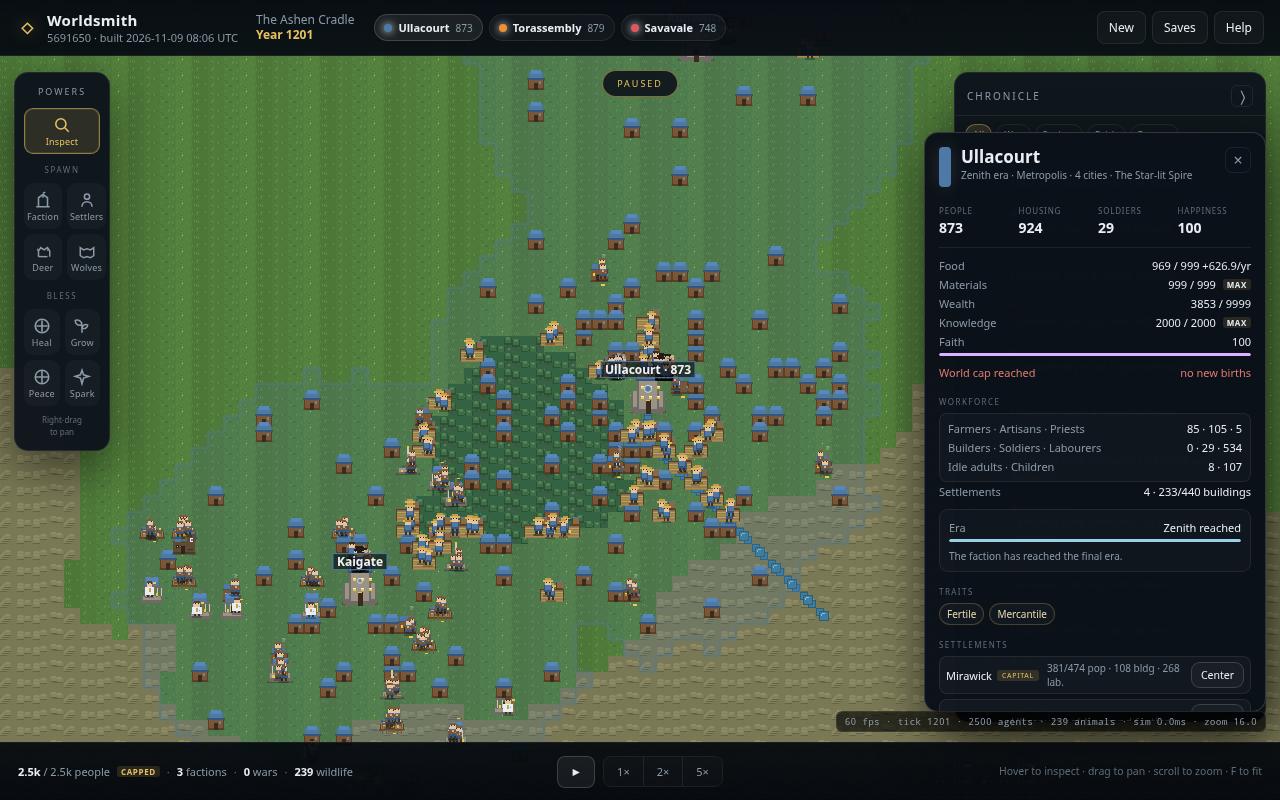
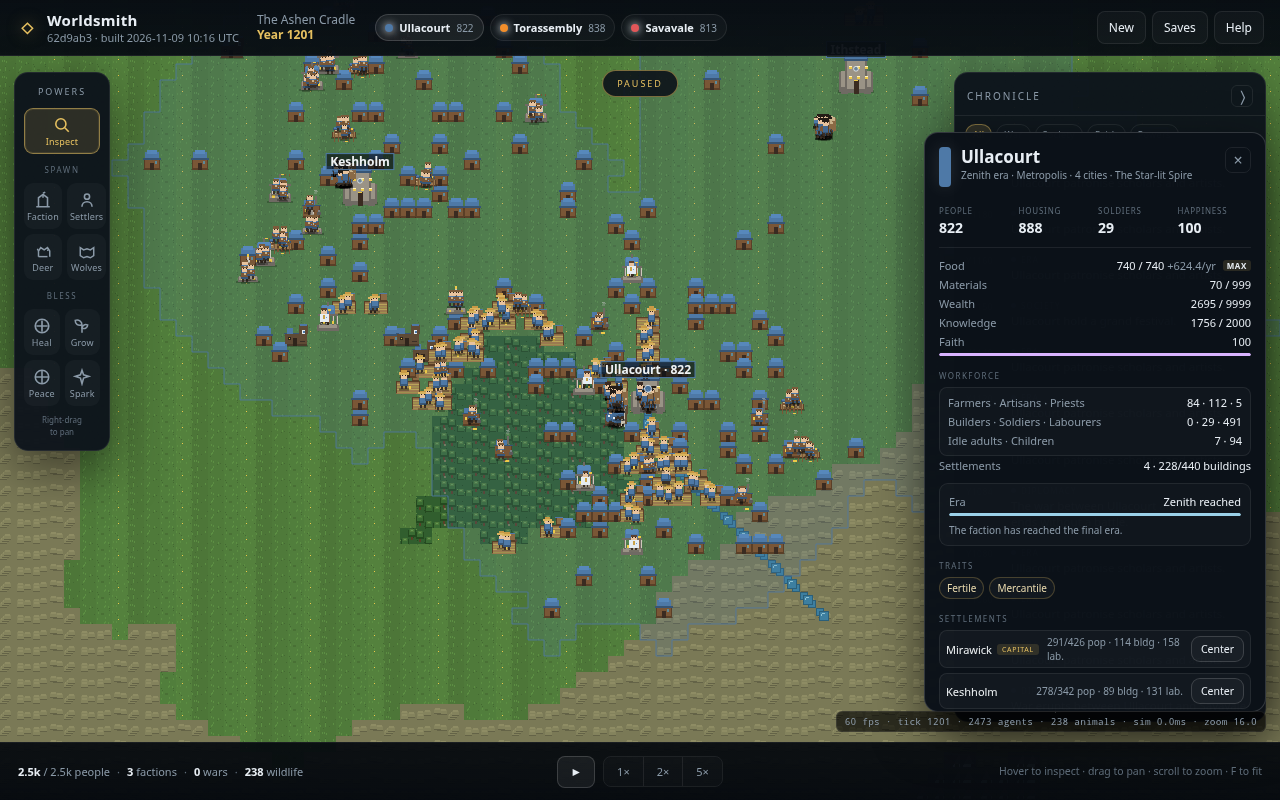
docs: record audit follow-up results

diff --git a/PLAN.md b/PLAN.md
@@ -72,6 +72,12 @@ In one line: **WorldBox-style living world, focused on societies rather than dis
   create resource pressure; expansion is population-gated so four settlements are reachable;
   wounded soldiers retreat instead of always dying; and the HUD shows population/cap,
   workforce and resource limits.
+- **Audit follow-up** — births are allocated fairly at the global cap with an emergency
+  reserve; no-fertile factions receive wanderers; war housing loss no longer sterilises a
+  faction (soft births, houses targeted last, peace relief); food storage is
+  population-scaled, era upkeep and wealth soft caps curb late-game saturation; no-contact
+  wars end as stalemates; and extinction causes/limits are surfaced in the HUD and
+  chronicle.
 
 ## 4. Milestones
 
@@ -88,6 +94,7 @@ In one line: **WorldBox-style living world, focused on societies rather than dis
 | 9 | Audit fixes: zero-pop extinction, proportional/varied famine, city migration + cross-settlement labour, defender interception, HUD warnings | ✅ Done | PR #11 follow-up; 85 tests; 1000-year run QA |
 | 10 | Post-fix audit: verified extinction path, population and settlement health; recorded remaining economy/cap/naval/religion gaps | ✅ Done | PR #11; 85 tests; audit runs |
 | 11 | Late-game society & balance: laborers, civic buildings, upkeep/festivals, population-gated four-city expansion, wounded retreat, cap/workforce HUD | ✅ Done | `feat/late-game-society`; 96 tests; 512²/256² audits |
+| 12 | Audit follow-up: fair cap allocation, post-war recovery, late-game economy and war fixes, extinction/cap feedback | ✅ Done | PR #12 follow-up; 104 tests; 2,000-year audit rerun |
 
 ## 5. Verification snapshot
 
@@ -95,28 +102,25 @@ As of **2026-11-09** (branch `feat/late-game-society`, based on `5691650`):
 
 - `npm install` completed; `@types/node` and `wrangler` present.
 - `npm run typecheck` — pass.
-- `npm test` — **96/96 pass** across 21 test files (16–28 s depending on load).
-- `npm run build` — pass; production `dist/` generated (39 modules, 146.92 kB JS,
+- `npm test` — **104/104 pass** across 23 test files (17–24 s depending on load).
+- `npm run build` — pass; production `dist/` generated (39 modules, 150.60 kB JS,
   22.98 kB CSS).
-- 512² `DELTA`, 1,600 ticks — **12 town centres (4 per faction)**, 675 buildings;
-  populations 891/893/714 = **2,498 / 2,500** global cap; building/soldier role share
-  28.8% / 28.4% / 34.1%; true idle adults 1.0–1.3%; 8 Markets, 6 Universities and
-  3 Monuments per faction; materials and knowledge capped, but wealth at
-  5,411 / 273 / 219 and food at 960–999. Migration distributes residents across the
-  four cities (sample 381 / 314 / 95 / 83) instead of filling only the largest one.
-- 256² `ALPHA`, 1,000 ticks — **130 war casualties, 3 battles**, populations
-  174 / 849 / 168; no zero-population faction, down from the previous worst audit of
-  557 casualties.
-- 1,024² pacing test — 200 ticks at ~2.4 ms/tick; performance headroom retained.
-- 2,000-year audit (see [docs/audit-2000.md](docs/audit-2000.md)) — 256² `ALPHA`,
-  `BRAVO` and `CHARLIE` ran to 2000 or first extinction; `BRAVO` lost Velakin at 652
-  and `CHARLIE` lost Moraspire at 228. 512² `DELTA` and 1,024² `TITAN` survived to
-  2000 but materials/knowledge capped, 1,024² stopped at 2,648/4,000 people, and
-  active-war years were 33–40%; findings and follow-ups are recorded in the report.
-- Browser checks at 1280×800 — creation; 256² growth to the cap; cap badge; civ panel
-  with workforce/resource limits/world-cap warning; new Market/University/Monument
-  sprites; festival and first-Monument chronicle entries; save slot → load; no console
-  errors.
+- 2,000-year audit after the follow-up (see [docs/audit-2000.md](docs/audit-2000.md)):
+  **no civilization went extinct** in 256² `ALPHA`/`BRAVO`/`CHARLIE`, 512² `DELTA` or
+  1,024² `TITAN`. 256² factions stabilise around 400 people with two cities each; 512²
+  and 1024² hold four cities each (one 512² faction fell to three after a war).
+- Resource pressure after the follow-up: food cap ticks are **zero** in every run; most
+  large-world factions end at 0–21 materials (one 512² faction still caps at 999);
+  knowledge ends at 1,700–2,000; wealth is soft-capped near 4,000 for rich factions and
+  near zero for poor ones; no famine events occurred.
+- War after the follow-up: 256² 8–13 starts with 5–12 battles; 512² 11 starts / 1 battle /
+  10 stalemates; 1,024² 13 starts / 1 battle / 8 stalemates. Stalemates and a 30-year
+  cooldown replaced the old phoney-war treadmill; battles remain rare on 1,024².
+- Browser checks at 1280×800 — creation; 512² twelve-city growth; cap/birth-limit HUD;
+  dynamic food storage; workforce and resource panel; new Market/University/Monument
+  sprites; festival, patronage, war-stalemate and first-building chronicle entries;
+  fallen-faction panel with cause/peak/casualties; save slot → load; 1,024² at 5× ~60 fps;
+  no console errors.
 - Dev server — `http://127.0.0.1:5173/`; responsive; no replacement server started.
 - Deployment — not performed; Cloudflare remains unauthenticated.
 - CI — intentionally **not added** (explicit user request); all verification is local.
@@ -144,21 +148,28 @@ As of **2026-11-09** (branch `feat/late-game-society`, based on `5691650`):
       the civ panel shows workforce, resource limits and growth warnings.
 - [x] **War balance:** half of lethal soldier hits become wounded retreats and wars end
       sooner; 256² casualties fell to 130 over 1,000 years in the audit seed.
-- [ ] **Audit follow-up — global cap fairness:** the global agent cap is a zero-sum
-      birth pool; later-founded factions can be squeezed to extinction. Add fair slot
-      allocation/reserved quotas and a low-population rescue path.
-- [ ] **Audit follow-up — post-war recovery:** war razing can block births long enough
-      for a faction's fertile cohort to age out. Add soft overcrowding births, rebuild
-      priority, razing limits and emergency immigration.
-- [ ] **Audit follow-up — resources and 1,024² growth:** food/materials/knowledge still
-      cap for most of the late game; 1,024² stops at 2,648/4,000. Add sinks/projects and
-      scale starting factions, settlements and housing with world size.
-- [ ] **Audit follow-up — war logistics and housing:** 1,024² generated 13 wars and only
-      2 battles; per-settlement housing remains imbalanced. Add route-feasibility checks,
-      naval interception, family migration and local housing priority.
-- [ ] **Audit follow-up — religion, ageing and extinction feedback:** conversions are
-      0–2 per 2,000 years, the age pyramid is old, and extinction only says “are no
-      more”. Add religion depth, fertility/ageing review and cause/history feedback.
+- [x] **Audit follow-up — global cap fairness:** births now use a population-ordered
+      budget and an emergency reserve; low-population factions can receive wanderers.
+      The 2,000-year audit no longer loses a faction to the cap.
+- [x] **Audit follow-up — post-war recovery:** soft overcrowding births, houses targeted
+      last, peace relief, longer cooldowns and emergency immigration prevent the
+      housing-loss death spiral.
+- [x] **Audit follow-up — late-game economy:** population-scaled food storage, era-gated
+      upkeep, wealth soft cap, knowledge/wealth building costs, expanded Monuments and
+      patronage; food no longer caps and no famine appears in the 2,000-year audit.
+- [ ] **Remaining late-game economy:** materials still cap on 256² and one industrious
+      512² faction; knowledge still reaches 2,000 for some factions. Add further sinks.
+- [ ] **1,024² growth:** the vast world still stabilises below its 4,000-agent cap; starting
+      factions, settlements and housing were deliberately not rescaled in this pass.
+- [x] **Audit follow-up — war fixes:** no-contact wars end as stalemates, houses are
+      targeted last, peace relief and a 30-year cooldown reduce phoney/destructive wars.
+- [ ] **War logistics and per-settlement housing:** 1,024² still produced only one battle
+      across 13 war starts; route feasibility/naval interception and family migration
+      remain open.
+- [x] **Audit follow-up — extinction feedback:** cause, peak, casualties and era are shown
+      in the chronicle and fallen-faction panel; cap and storage limits are surfaced.
+- [ ] **Religion and ageing:** conversions remain 0–2 per 2,000 years and the age pyramid
+      is old; these were deliberately left out of this pass.
 - [ ] **Naval combat and coastal interception:** navies currently ferry armies only;
       armies can land and raze without naval opposition (covered by the audit follow-up).
 - [ ] **Automated browser smoke tests:** manual browser QA performed; automation
@@ -192,24 +203,22 @@ As of **2026-11-09** (branch `feat/late-game-society`, based on `5691650`):
 ## 8. Known issues & risks
 
 **Post-iteration 2,000-year audit (2026-11-09):** [docs/audit-2000.md](docs/audit-2000.md)
-ran 256², 512² and 1,024² worlds to year 2000 or the first extinction. The headline
-findings are the global-cap birth allocation, a post-war housing/fertility collapse, and
-late-game resource saturation; the full evidence and proposed fixes are in the report.
+ran 256², 512² and 1,024² worlds to year 2000 or the first extinction. The audit found the
+global-cap birth allocation, a post-war housing/fertility collapse and resource saturation;
+the follow-up implementation addressed the first two, and the remaining gaps are below.
 
 | Issue | Impact | Next step |
 |---|---|---|
-| Global agent cap is a zero-sum birth pool | At the cap, births favour earlier civilizations; 256² `BRAVO` later-founded Velakin had 745 births vs 2,464/1,891 and went extinct at 652 with 408 housing empty at year 440; emergency wanderers are also blocked | Fair slot allocation/reserved quotas, per-faction caps, low-population rescue; regression test |
-| War razing can sterilise a faction | 256² `CHARLIE`: one war razed 21 buildings; Moraspire housing fell 54→36 at population 45, births stopped, fertile women aged out (7→1→0), extinction at 228 with food 999 | Soft overcrowding births, post-war rebuild priority, razing limits, emergency immigration |
-| Late-game resources saturate and famine is dormant | 2,000-year runs: food caps for 1,700–1,800 years, knowledge for 1,500–1,600, materials for 1,400–1,500; zero food-shortage/famine ticks; wealth is 259–8,284 | Dynamic storage/spoilage, era-scaled upkeep, late-game projects/wonders/trade |
-| 1,024² stays underpopulated | Only 2,648/4,000 people; the cap is never hit; each faction stabilises at ~880 with 888–924 housing and 224–234/440 buildings | Scale starting factions/settlements with world size, proactive housing, late-era buildings |
-| Wars can be frequent and phoney | 1,024²: 13 starts / 2 battles and ~40% of years at war; 512²: 11/5; 256² `ALPHA` had 491 casualties and one faction reduced to one city | Route feasibility before declaring, naval interception, peace/recovery windows, razing limits |
+| Materials can still cap | 256² factions end at 999 materials; one industrious 512² faction also caps, while other large-world factions end at 0–21 | Further material sinks or rebalance production/upkeep |
+| Knowledge can still cap | Factions end at 1,700–2,000 knowledge; patronage is wealth-gated | Broaden knowledge sinks or make patronage independent of wealth |
+| Wealth is very unequal | Rich factions sit near the 4,000 soft cap while others end at 0–20; wealth still mostly pays soldiers | Trade, redistribution or a small base income |
+| 1,024² stays underpopulated | 2,644/4,000 people; the cap is never hit; each faction stabilises around 800 with four cities | Scale starting factions/settlements with world size, proactive housing, late-era buildings |
+| Large-world wars have few battles | 512²: 11 starts / 1 battle / 10 stalemates; 1,024²: 13/1/8; most no-contact wars now end as stalemates | Route feasibility before declaring, naval interception, faster army arrival |
 | Per-settlement housing is imbalanced | 512² settlements reached 214 residents / 102 housing; 1,024² 300 / 120; migration only moves adults | Local housing/birth checks, family migration, construction priority, HUD warning |
 | Demographic age skew and transient idle | 40–48% of people are elders and only 12–16% children at year 2000; the HUD shows 8 age-14 “idle adults” for a tick after ageing | Review fertility/ageing, assign jobs after ageing or label newly aged adults |
-| Wealth is very unequal | 512² ended at 6,978 / 216 / 291 wealth; 1,024² at 8,039 / 8,284 / 259; wealth only pays soldiers | Spending sinks, trade, redistribution or a base income |
-| Material and knowledge caps remain | Every faction ends with materials 999 and knowledge 2,000; universities produce into a cap | Further knowledge/material sinks or rebalance production |
 | Navies are transport-only | Armies can land and raze without naval battles or coastal interception | Add naval interception/coastal defence or transport attrition |
 | Religion spread is sparse | Only 0–2 conversions per 2,000-year run | Add conversion/reformation events and stronger neighbour pressure |
-| 256² wars are still lethal | The audit seed fell from 557 to 130 casualties over 1,000 years, but 2,000-year runs still show high attrition and extinctions | Keep the audit band under review when balance changes |
+| 256² wars remain attritional | 2,000-year runs show 8–13 starts with 5–12 battles; no extinctions after the follow-up, but casualties are still seed-sensitive | Keep the audit band under review when balance changes |
 | No civilian sea migration or overseas settlements | New cities must be on the same landmass; navies are military-only | Future coastal expansion/colony mechanic |
 | Settlement founding is AI-only | Players cannot directly plant a city; factions expand on their own | Consider a "found settlement" power if requested |
 | Reachability/naval plans are derived, not serialized | Terrain-shape changes must call `refreshReachability()` | Keep future sculpting behind that hook |
@@ -280,6 +289,23 @@ late-game resource saturation; the full evidence and proposed fixes are in the r
   knowledge, underpopulated 1,024² worlds, phoney/destructive wars, and persistent
   per-settlement housing imbalance. No code changes were made; evidence and proposed
   fixes are in [docs/audit-2000.md](docs/audit-2000.md).
+- **2026-11-09 — audit follow-up scope:** implement fair cap allocation, post-war
+  recovery, late-game economy, war fixes and feedback; 1,024² scaling, per-settlement
+  housing, religion, ageing and idle accounting stay out of this pass.
+- **2026-11-09 — fair cap design:** hold back 12/25/40 emergency slots by world size,
+  order civilizations by population for the per-tick birth budget, and let factions with
+  no fertile adult receive emergency wanderers; slight overcrowding permits reduced-rate
+  births.
+- **2026-11-09 — economy design:** food storage is 1.5× annual need (minimum 120); era
+  upkeep applies only above 120 buildings; wealth above 4,000 is spent down; Universities
+  and Monuments cost knowledge/wealth; Monuments scale to 6; patronage spends knowledge
+  and wealth for happiness/faith; excess knowledge also contributes happiness.
+- **2026-11-09 — war design:** armies target houses only after other buildings;
+  no-contact wars stalemate after 45 land / 100 naval years; peace pays 25 materials and
+  15 food, with a 30-year cooldown; extinction causes are recorded in the chronicle and
+  fallen panel.
+- **2026-11-09 — no schema change:** the follow-up derives all new state locally and
+  keeps `SAVE_VERSION` 6; save round-trip tests remain green.
 
 ## 10. How progress is tracked
 

diff --git a/docs/audit-2000.md b/docs/audit-2000.md
@@ -159,3 +159,70 @@ add a retrospective event.
 4. Scale 1024² factions/housing so the vast world can grow into its cap.
 5. War logistics, naval interception and per-settlement housing.
 6. Religion and extinction feedback.
+
+## Follow-up implementation (2026-11-09)
+
+The requested five areas were implemented on `feat/late-game-society`: fair cap
+allocation, post-war recovery, late-game economy, war fixes and player feedback. The
+audit was rerun on the same scenarios after the changes.
+
+### What changed
+
+- **Fair cap allocation:** normal births stop at a reserve (12 / 25 / 40 agents by world
+  size), birth slots are shared by sorting civilizations by population (lowest first),
+  and each civilization has a per-tick birth budget. Factions with no fertile adult
+  receive emergency wanderers even when the global cap is otherwise full.
+- **Post-war recovery:** births continue through a small housing shortfall (35% slack at
+  half chance), armies target houses only after other buildings, peace pays 25 materials
+  and 15 food to both sides, war cooldowns are 30 years, and emergency immigration can
+  restore a sterile faction.
+- **Late-game economy:** food storage is population-scaled (1.5× annual need, minimum
+  120); upkeep grows with era once a faction has more than 120 buildings; wealth above
+  4,000 is spent down; Universities and Monuments cost knowledge/wealth as well as
+  materials; Monuments scale to 6 per faction; and excess knowledge/wealth funds
+  patronage every 20 years. Knowledge beyond the final era also adds happiness.
+- **War fixes:** no-contact wars end as stalemates (45 years on land, 100 across water),
+  houses are spared until no other target remains, peace relief and a longer cooldown
+  replace the old immediate re-declaration treadmill, and stalemates get their own
+  chronicle entry.
+- **Feedback:** extinction causes appear in the chronicle and fallen-faction panel (with
+  peak population, casualties and era), the top bar reports the birth limit and emergency
+  reserve, food shows its population-scaled storage limit, and war stalemates are named.
+- **Schema:** no new persisted fields; `SAVE_VERSION` stays 6.
+
+### Post-implementation audit
+
+| Run | Final year | Outcome | Max pop | Cap hit | War starts / battles / stalemates |
+|---|---:|---|---:|---|---|
+| 256² `ALPHA` | 2000 | no extinction | 1,188 | 353 | 13 / 12 / 0 |
+| 256² `BRAVO` | 2000 | **no extinction** (was Velakin at 652) | 1,188 | 360 | 12 / 12 / 0 |
+| 256² `CHARLIE` | 2000 | **no extinction** (was Moraspire at 228) | 1,188 | 307 | 8 / 5 / 1 |
+| 512² `DELTA` | 2000 | no extinction | 2,475 | 506 | 11 / 1 / 10 |
+| 1024² `TITAN` | 2000 | no extinction | 2,644 | never | 13 / 1 / 8 |
+
+- Food cap ticks are now **zero** in every run, and no famine events occurred.
+- 256² factions stabilise around 400 people and two cities each; 512²/1024² hold four
+  cities each (one 512² faction fell to three after a war).
+- Materials end at 0–21 for most large-world factions (one 512² faction still caps at
+  999); knowledge ends at 1,700–2,000; wealth is soft-capped around 4,000 for the rich
+  and remains near zero for poorer factions.
+- Large-world wars are much shorter and mostly end as stalemates; battles are now rare on
+  1024² (1 battle across 13 starts), so war logistics/naval interception is still needed.
+- No faction extinction was observed in any sampled run.
+
+### Remaining gaps after the follow-up
+
+- Materials can still cap on 256² and for one industrious 512² faction; knowledge still
+  reaches 2,000 for some factions (patronage is wealth-gated).
+- 1,024² still stabilises well below its 4,000-agent cap; starting factions/settlements
+  were deliberately not rescaled in this pass.
+- Per-settlement housing, religion depth, the ageing pyramid and the 8 transient age-14
+  “idle” adults were deliberately left out per the request.
+- 1,024² war battles are rare; route feasibility and naval interception remain the
+  missing pieces.
+
+Verification for the follow-up: `npm run typecheck` and `npm run build` pass;
+`npm test` is **104/104 across 23 files**, including new fair-cap and war-recovery
+regression tests. Browser QA at 1280×800 covered the living/fallen faction panels,
+dynamic food storage, war-stalemate and patronage chronicle entries, save → load, and
+1,024² at 5× (~60 fps, no console errors).

diff --git a/AGENTS.md b/AGENTS.md
@@ -52,8 +52,9 @@ the console. For simulation changes, also check save → load → continuation.
   build-info label.
 - `src/persist/` — IndexedDB storage with a temporary in-memory fallback.
 - `src/main.ts` — app wiring, input, fixed-step loop, autosave, debug API.
-- `tests/` — worldgen, simulation, war/pathfinding/cost, naval, settlements/growth,
-  late-game labour/economy, extinction/famine, powers, storage, save round-trip.
+- `tests/` — worldgen, simulation, war/pathfinding/cost/recovery, naval,
+  settlements/growth, fair-cap/post-war, late-game labour/economy, extinction/famine,
+  powers, storage, save round-trip.
 
 ## Invariants
 
@@ -79,7 +80,7 @@ the console. For simulation changes, also check save → load → continuation.
 
 ## Verification
 
-- `npm test` currently covers **96 checks** across 21 files. Keep it green.
+- `npm test` currently covers **104 checks** across 23 files. Keep it green.
 - Use `?debug=1` and the `window.__worldsmith` debug API
   (`startWorld`, `cast`, `save`, `load`, `speed`, `pause`, `stats`, `renderer`,
   `camera`) for browser verification.
@@ -97,15 +98,19 @@ the console. For simulation changes, also check save → load → continuation.
 - Settlement founding is automatic AI expansion (up to four per faction); there is no
   player "found city" power.
 - Global agent caps (1,200 / 2,500 / 4,000 by world size) remain the authoritative
-  population limit; the top bar now shows population / cap and a CAPPED tag.
-- The global cap is also the global birth pool: births are processed by civilization
-  order, so later-founded factions can be squeezed out at the cap. Treat this as a known
-  balance/design risk; see [docs/audit-2000.md](docs/audit-2000.md).
-- War razing can block births long enough for a faction's fertile cohort to age out and
-  go extinct even with food and housing available; see the audit report.
+  population limit. Normal births stop at a reserve (12 / 25 / 40) and are allocated in
+  population order; emergency wanderers can use the reserve. The top bar reports the
+  birth limit and reserve; do not reintroduce ID-order birth allocation.
+- Post-war recovery is deliberate: houses are targeted last, soft overcrowding births and
+  emergency wanderers exist, and peace pays a small relief. Do not remove these without a
+  replacement, or weak factions can die out with housing and food available.
 - Late-game surplus adults become laborers and civic buildings (Market, University,
-  Monument) add jobs; food, materials and knowledge can still reach their caps, famine
-  is dormant, and 1,024² stabilises around 2,648/4,000 people with three factions.
+  Monument) add jobs. Food uses population-scaled storage, wealth has a 4,000 soft cap,
+  but materials/knowledge can still cap for some factions and 1,024² stabilises below its
+  4,000-agent cap with three factions.
+- War: no-contact wars end as stalemates (45 land / 100 naval years) and peace has a
+  30-year cooldown; battles remain rare on 1,024² because armies often fail to reach each
+  other. Route feasibility/naval interception is still open.
 - Settlement founding is population-gated at 250 people per existing centre; four cities
   are reachable on 512², and the minimum 16-tile gap still applies.
 - Navies ferry armies only; there is no naval combat or coastal interception yet, and

diff --git a/README.md b/README.md
@@ -186,15 +186,14 @@ or UI structure.
 Armies can sail, but civilians do not migrate by sea and new settlements must share
 their parent faction's landmass. Settlement founding is automatic AI expansion; there
 is no player "found city" power. Global agent caps (1,200 / 2,500 / 4,000) remain the
-authoritative population limit per world size; the top bar shows population / cap and a
-CAPPED badge. Surplus adults work as laborers, and Markets, Universities and Monuments
-add late-game jobs, but materials and knowledge can still reach their caps and poorer
-factions can run close to zero wealth; late-game economy remains a balance focus. Navies
-currently ferry armies only — there is no naval combat or coastal interception — and
-religion spread remains shallow. A 2,000-year audit found that very long runs can still
-lose a faction to global-cap birth allocation or post-war housing collapse, and that
-1,024² worlds stabilise well below their agent cap; see
-[docs/audit-2000.md](docs/audit-2000.md).
+authoritative population limit per world size; the top bar reports the birth limit and
+the small emergency reserve. The audit follow-up added fair birth allocation, emergency
+wanderers, post-war recovery and soft births, so the 2,000-year runs no longer lose a
+faction to the global cap or a housing collapse. Materials and knowledge can still reach
+their caps, wealth remains very unequal, and 1,024² worlds stabilise below their agent
+cap. Navies currently ferry armies only — there is no naval combat or coastal
+interception — and religion spread remains shallow. See
+[docs/audit-2000.md](docs/audit-2000.md) for the audit and follow-up results.
 
 ## License
 
